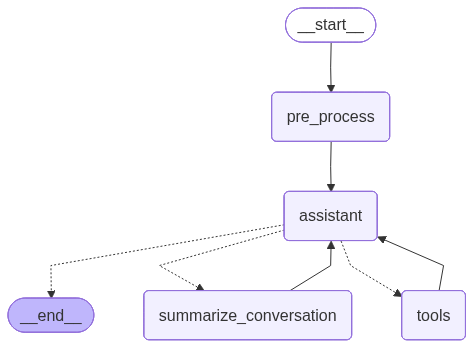
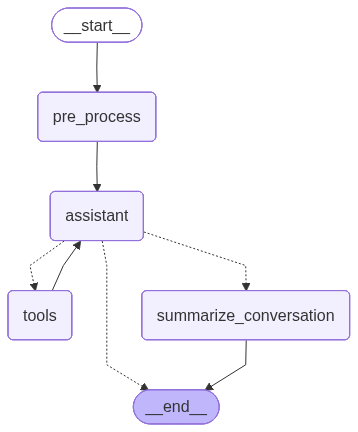
bugfixes in test.py

diff --git a/backend/graph/agent.py b/backend/graph/agent.py
@@ -14,17 +14,14 @@ def build_graph(checkpointer=None):
 
     def tools_with_history(state: State, config):
         """Wrap ToolNode to inject conversation history into config for tools."""
-        # LangGraph may pass either a dict-like state or a Pydantic State instance.
         if isinstance(state, dict):
-            state_dict = state
             messages = state.get("messages", [])
         else:
             messages = getattr(state, "messages", [])
-            state_dict = (
-                state.model_dump()  # Pydantic v2
-                if hasattr(state, "model_dump")
-                else state.dict()   # Pydantic v1 fallback
-            )
+
+        # Pass messages directly — model_dump() would serialize LangChain
+        # message objects to plain dicts, breaking ToolNode's isinstance checks.
+        state_dict = {"messages": messages}
 
         enhanced_config = {
             **config,
